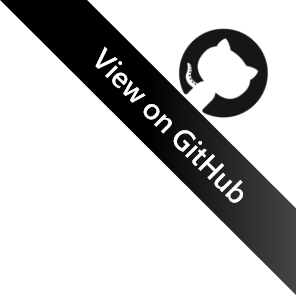
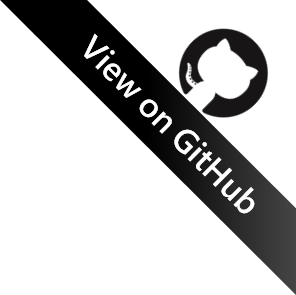
Update ViewOnGitHub img, note path to readme.md file path

Changed region(s): [[0.5777, 0.4271, 0.8818, 0.7322], [0.2736, 0.122, 0.5777, 0.4576]]

diff --git a/js30/index.html b/js30/index.html
@@ -28,7 +28,7 @@
             position: absolute;
             top: 0;
             right: 0;
-            height: 140px;            
+            height: 110px;            
         }
     </style>
 </head>
@@ -128,7 +128,7 @@
                     demoLink.textContent = 'Demo';
                     demoCol.appendChild(demoLink);
                     noteLink.classList.add(...linkStyle);
-                    noteLink.href = `${noteHomeLink}/${courseRef}`;
+                    noteLink.href = `${noteHomeLink}/${courseRef}/readme.md`;
                     noteLink.setAttribute('target', '_blank');
                     noteLink.textContent = 'Note';
                     noteCol.appendChild(noteLink);
